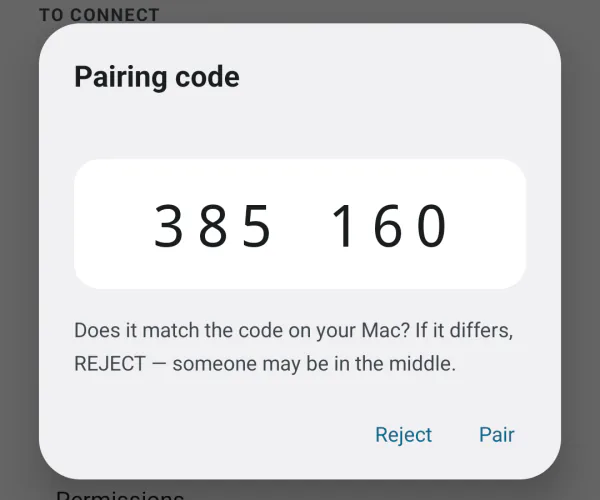
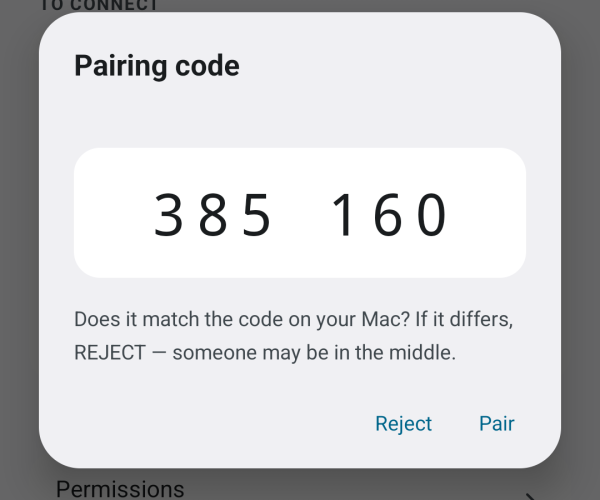
fix(landing): preserve screenshot detail with lossless WebP

diff --git a/tr/index.html b/tr/index.html
@@ -27,7 +27,7 @@
   <link rel="icon" href="../images/icon.png" sizes="256x256" type="image/png">
   <link rel="apple-touch-icon" href="../images/apple-touch-icon.png">
   <link rel="preload" href="../fonts/schibsted-latin.woff2" as="font" type="font/woff2" crossorigin>
-  <link rel="preload" href="../images/macos-panel-640.webp" as="image" type="image/webp" imagesrcset="../images/macos-panel-320.webp 320w, ../images/macos-panel-640.webp 640w" imagesizes="(max-width: 600px) 46vw, 320px" fetchpriority="high">
+  <link rel="preload" href="../images/macos-panel-640.webp?v=3" as="image" type="image/webp" imagesrcset="../images/macos-panel-320.webp?v=3 320w, ../images/macos-panel-640.webp?v=3 640w" imagesizes="(max-width: 600px) 46vw, 320px" fetchpriority="high">
   <link rel="stylesheet" href="../site.css">
   <script>try{const t=localStorage.getItem("theme");document.documentElement.dataset.theme=t==="dark"||t==="light"?t:matchMedia("(prefers-color-scheme: dark)").matches?"dark":"light"}catch{}</script>
   <script>if("IntersectionObserver"in window&&!matchMedia("(prefers-reduced-motion: reduce)").matches){const r=document.documentElement;r.classList.add("rv");addEventListener("load",()=>{if(!r.dataset.revealReady)r.classList.remove("rv")})}</script>
@@ -63,11 +63,11 @@
       </div>
       <div class="stage">
         <picture>
-          <source type="image/webp" srcset="../images/macos-panel-320.webp 320w, ../images/macos-panel-640.webp 640w" sizes="(max-width: 600px) 46vw, 320px">
+          <source type="image/webp" srcset="../images/macos-panel-320.webp?v=3 320w, ../images/macos-panel-640.webp?v=3 640w" sizes="(max-width: 600px) 46vw, 320px">
           <img class="panel" src="../images/macos-panel.png" width="640" height="1090" fetchpriority="high" alt="Mac'te AndroMac menü çubuğu paneli: yüzde 78 dolu ve şarj olan bir Pixel 9, çalan bir şarkı, pano ve kopyalama düğmeli bir doğrulama kodu dahil son telefon bildirimleri.">
         </picture>
         <picture>
-          <source type="image/webp" srcset="../images/android-home-270.webp 270w, ../images/android-home-540.webp 540w" sizes="(max-width: 600px) 36vw, 250px">
+          <source type="image/webp" srcset="../images/android-home-270.webp?v=3 270w, ../images/android-home-540.webp?v=3 540w, ../images/android-home-1080.webp?v=3 1080w" sizes="(max-width: 600px) 36vw, 250px">
           <img class="phone" src="../images/android-home.png" width="1080" height="2000" alt="Android'de eşleşmeye hazır AndroMac: Eşleştir düğmesi ve pil, pano, bildirim ve medya anahtarları.">
         </picture>
         <div class="banner" aria-hidden="true">
@@ -180,7 +180,7 @@ xattr -dr com.apple.quarantine /Applications/AndroMac.app</pre></div>
         <figure class="tile wide" data-reveal="zoom">
           <div class="fig">
             <div class="pane"><picture>
-              <source type="image/webp" srcset="../images/macos-window-720.webp 720w, ../images/macos-window-1440.webp 1440w" sizes="(max-width: 900px) 90vw, 620px">
+              <source type="image/webp" srcset="../images/macos-window-720.webp?v=3 720w, ../images/macos-window-1440.webp?v=3 1440w" sizes="(max-width: 900px) 90vw, 620px">
               <img src="../images/macos-window.png" width="1440" height="1000" loading="lazy" alt="Mac'te bildirim geçmişi penceresi: Messages, Signal, Calendar, Photos ve Maps bildirimleri ve bir arama alanı.">
             </picture></div>
             <figcaption>Telefondan gelen her bildirim bir geçmişte birikir; uygulamaya, başlığa ya da metne göre ararsın</figcaption>
@@ -189,7 +189,7 @@ xattr -dr com.apple.quarantine /Applications/AndroMac.app</pre></div>
         <figure class="tile tall" data-reveal="zoom">
           <div class="fig">
             <div class="pane"><picture>
-              <source type="image/webp" srcset="../images/android-sync-dark-300.webp 300w, ../images/android-sync-dark-600.webp 600w" sizes="(max-width: 600px) 60vw, 280px">
+              <source type="image/webp" srcset="../images/android-sync-dark-300.webp?v=3 300w, ../images/android-sync-dark-600.webp?v=3 600w, ../images/android-sync-dark-1080.webp?v=3 1080w" sizes="(max-width: 600px) 60vw, 280px">
               <img src="../images/android-sync-dark.png" width="1080" height="1800" loading="lazy" alt="Koyu temada Android uygulaması: pil, pano, bildirimler ve medya anahtarları.">
             </picture></div>
             <figcaption>Telefonun Mac'le neyi paylaşacağını sen seçersin: pil, pano, bildirimler ve müzik</figcaption>
@@ -198,7 +198,7 @@ xattr -dr com.apple.quarantine /Applications/AndroMac.app</pre></div>
         <figure class="tile tall" data-reveal="zoom">
           <div class="fig">
             <div class="pane"><picture>
-              <source type="image/webp" srcset="../images/android-connection-300.webp 300w, ../images/android-connection-600.webp 600w" sizes="(max-width: 600px) 60vw, 280px">
+              <source type="image/webp" srcset="../images/android-connection-300.webp?v=3 300w, ../images/android-connection-600.webp?v=3 600w, ../images/android-connection-1080.webp?v=3 1080w" sizes="(max-width: 600px) 60vw, 280px">
               <img src="../images/android-connection.png" width="1080" height="1800" loading="lazy" alt="Android'de Bağlantı ekranı: eşlenen Mac, son adresi ve Otomatik yeniden bağlan anahtarı.">
             </picture></div>
             <figcaption>Mac aynı Wi-Fi'da göründüğünde telefon kendiliğinden yeniden bağlanır</figcaption>
@@ -207,7 +207,7 @@ xattr -dr com.apple.quarantine /Applications/AndroMac.app</pre></div>
         <figure class="tile wide" data-reveal="zoom">
           <div class="fig">
             <div class="pane"><picture>
-              <source type="image/webp" srcset="../images/macos-settings-sync-720.webp 720w, ../images/macos-settings-sync-1440.webp 1440w" sizes="(max-width: 900px) 90vw, 620px">
+              <source type="image/webp" srcset="../images/macos-settings-sync-720.webp?v=3 720w, ../images/macos-settings-sync-1440.webp?v=3 1440w" sizes="(max-width: 900px) 90vw, 620px">
               <img src="../images/macos-settings-sync.png" width="1440" height="1000" loading="lazy" alt="Mac'te Eşitleme ayarları: pil, pano, bildirim ve medya anahtarları ve yüzde 10, 15, 20 ya da 30 seçenekli düşük pil uyarı eşiği.">
             </picture></div>
             <figcaption>Nelerin eşitleneceğini ve pil kaça düşünce Mac'in uyaracağını seç</figcaption>
@@ -231,11 +231,11 @@ xattr -dr com.apple.quarantine /Applications/AndroMac.app</pre></div>
       <figure data-reveal="right">
         <div class="frame">
           <picture>
-            <source type="image/webp" srcset="../images/macos-pairing-380.webp 380w, ../images/macos-pairing-760.webp 760w" sizes="(max-width: 600px) 52vw, 340px">
+            <source type="image/webp" srcset="../images/macos-pairing-380.webp?v=3 380w, ../images/macos-pairing-760.webp?v=3 760w" sizes="(max-width: 600px) 52vw, 340px">
             <img src="../images/macos-pairing.png" width="760" height="556" loading="lazy" alt="Mac'te eşleştirme penceresi: altı haneli kod, Reject ve Pair düğmeleri.">
           </picture>
           <picture>
-            <source type="image/webp" srcset="../images/android-pairing-300.webp 300w, ../images/android-pairing-600.webp 600w" sizes="(max-width: 600px) 38vw, 240px">
+            <source type="image/webp" srcset="../images/android-pairing-300.webp?v=3 300w, ../images/android-pairing-600.webp?v=3 600w, ../images/android-pairing-1080.webp?v=3 1080w" sizes="(max-width: 600px) 38vw, 240px">
             <img class="ph" src="../images/android-pairing.png" width="1080" height="900" loading="lazy" alt="Android'de eşleştirme kodu penceresi, Reject ve Pair düğmeleriyle.">
           </picture>
         </div>

diff --git a/index.html b/index.html
@@ -28,7 +28,7 @@
   <link rel="icon" href="images/icon.png" sizes="256x256" type="image/png">
   <link rel="apple-touch-icon" href="images/apple-touch-icon.png">
   <link rel="preload" href="fonts/schibsted-latin.woff2" as="font" type="font/woff2" crossorigin>
-  <link rel="preload" href="images/macos-panel-640.webp" as="image" type="image/webp" imagesrcset="images/macos-panel-320.webp 320w, images/macos-panel-640.webp 640w" imagesizes="(max-width: 600px) 46vw, 320px" fetchpriority="high">
+  <link rel="preload" href="images/macos-panel-640.webp?v=3" as="image" type="image/webp" imagesrcset="images/macos-panel-320.webp?v=3 320w, images/macos-panel-640.webp?v=3 640w" imagesizes="(max-width: 600px) 46vw, 320px" fetchpriority="high">
   <link rel="stylesheet" href="site.css">
   <script>try{const t=localStorage.getItem("theme");document.documentElement.dataset.theme=t==="dark"||t==="light"?t:matchMedia("(prefers-color-scheme: dark)").matches?"dark":"light"}catch{}</script>
   <script>if("IntersectionObserver"in window&&!matchMedia("(prefers-reduced-motion: reduce)").matches){const r=document.documentElement;r.classList.add("rv");addEventListener("load",()=>{if(!r.dataset.revealReady)r.classList.remove("rv")})}</script>
@@ -64,11 +64,11 @@
       </div>
       <div class="stage">
         <picture>
-          <source type="image/webp" srcset="images/macos-panel-320.webp 320w, images/macos-panel-640.webp 640w" sizes="(max-width: 600px) 46vw, 320px">
+          <source type="image/webp" srcset="images/macos-panel-320.webp?v=3 320w, images/macos-panel-640.webp?v=3 640w" sizes="(max-width: 600px) 46vw, 320px">
           <img class="panel" src="images/macos-panel.png" width="640" height="1090" fetchpriority="high" alt="AndroMac menu-bar panel on the Mac: a Pixel 9 at 78% and charging, a song playing, the clipboard, and recent phone notifications including a verification code with a copy button.">
         </picture>
         <picture>
-          <source type="image/webp" srcset="images/android-home-270.webp 270w, images/android-home-540.webp 540w" sizes="(max-width: 600px) 36vw, 250px">
+          <source type="image/webp" srcset="images/android-home-270.webp?v=3 270w, images/android-home-540.webp?v=3 540w, images/android-home-1080.webp?v=3 1080w" sizes="(max-width: 600px) 36vw, 250px">
           <img class="phone" src="images/android-home.png" width="1080" height="2000" alt="AndroMac on Android, ready to pair, with a Pair button and switches for battery, clipboard, notifications and media.">
         </picture>
         <div class="banner" aria-hidden="true">
@@ -181,7 +181,7 @@ xattr -dr com.apple.quarantine /Applications/AndroMac.app</pre></div>
         <figure class="tile wide" data-reveal="zoom">
           <div class="fig">
             <div class="pane"><picture>
-              <source type="image/webp" srcset="images/macos-window-720.webp 720w, images/macos-window-1440.webp 1440w" sizes="(max-width: 900px) 90vw, 620px">
+              <source type="image/webp" srcset="images/macos-window-720.webp?v=3 720w, images/macos-window-1440.webp?v=3 1440w" sizes="(max-width: 900px) 90vw, 620px">
               <img src="images/macos-window.png" width="1440" height="1000" loading="lazy" alt="Notification history window on the Mac, listing notifications from Messages, Signal, Calendar, Photos and Maps, with a search field.">
             </picture></div>
             <figcaption>Every notification from the phone, in a history you can search by app, title or text</figcaption>
@@ -190,7 +190,7 @@ xattr -dr com.apple.quarantine /Applications/AndroMac.app</pre></div>
         <figure class="tile tall" data-reveal="zoom">
           <div class="fig">
             <div class="pane"><picture>
-              <source type="image/webp" srcset="images/android-sync-dark-300.webp 300w, images/android-sync-dark-600.webp 600w" sizes="(max-width: 600px) 60vw, 280px">
+              <source type="image/webp" srcset="images/android-sync-dark-300.webp?v=3 300w, images/android-sync-dark-600.webp?v=3 600w, images/android-sync-dark-1080.webp?v=3 1080w" sizes="(max-width: 600px) 60vw, 280px">
               <img src="images/android-sync-dark.png" width="1080" height="1800" loading="lazy" alt="The Android app in dark mode, with switches for battery, clipboard, notifications and media.">
             </picture></div>
             <figcaption>Choose what the phone shares with the Mac: battery, clipboard, notifications and media</figcaption>
@@ -199,7 +199,7 @@ xattr -dr com.apple.quarantine /Applications/AndroMac.app</pre></div>
         <figure class="tile tall" data-reveal="zoom">
           <div class="fig">
             <div class="pane"><picture>
-              <source type="image/webp" srcset="images/android-connection-300.webp 300w, images/android-connection-600.webp 600w" sizes="(max-width: 600px) 60vw, 280px">
+              <source type="image/webp" srcset="images/android-connection-300.webp?v=3 300w, images/android-connection-600.webp?v=3 600w, images/android-connection-1080.webp?v=3 1080w" sizes="(max-width: 600px) 60vw, 280px">
               <img src="images/android-connection.png" width="1080" height="1800" loading="lazy" alt="Connection screen on Android with the paired Mac, its last address, and a Reconnect automatically switch.">
             </picture></div>
             <figcaption>The phone reconnects whenever the Mac is reachable on the same Wi-Fi</figcaption>
@@ -208,7 +208,7 @@ xattr -dr com.apple.quarantine /Applications/AndroMac.app</pre></div>
         <figure class="tile wide" data-reveal="zoom">
           <div class="fig">
             <div class="pane"><picture>
-              <source type="image/webp" srcset="images/macos-settings-sync-720.webp 720w, images/macos-settings-sync-1440.webp 1440w" sizes="(max-width: 900px) 90vw, 620px">
+              <source type="image/webp" srcset="images/macos-settings-sync-720.webp?v=3 720w, images/macos-settings-sync-1440.webp?v=3 1440w" sizes="(max-width: 900px) 90vw, 620px">
               <img src="images/macos-settings-sync.png" width="1440" height="1000" loading="lazy" alt="Sync settings on the Mac: switches for battery, clipboard, notifications and media, and a low-battery alert threshold of 10, 15, 20 or 30 percent.">
             </picture></div>
             <figcaption>Choose what syncs, and at which battery level the Mac warns you</figcaption>
@@ -232,11 +232,11 @@ xattr -dr com.apple.quarantine /Applications/AndroMac.app</pre></div>
       <figure data-reveal="right">
         <div class="frame">
           <picture>
-            <source type="image/webp" srcset="images/macos-pairing-380.webp 380w, images/macos-pairing-760.webp 760w" sizes="(max-width: 600px) 52vw, 340px">
+            <source type="image/webp" srcset="images/macos-pairing-380.webp?v=3 380w, images/macos-pairing-760.webp?v=3 760w" sizes="(max-width: 600px) 52vw, 340px">
             <img src="images/macos-pairing.png" width="760" height="556" loading="lazy" alt="Pairing window on the Mac with a six-digit code and Reject and Pair buttons.">
           </picture>
           <picture>
-            <source type="image/webp" srcset="images/android-pairing-300.webp 300w, images/android-pairing-600.webp 600w" sizes="(max-width: 600px) 38vw, 240px">
+            <source type="image/webp" srcset="images/android-pairing-300.webp?v=3 300w, images/android-pairing-600.webp?v=3 600w, images/android-pairing-1080.webp?v=3 1080w" sizes="(max-width: 600px) 38vw, 240px">
             <img class="ph" src="images/android-pairing.png" width="1080" height="900" loading="lazy" alt="Pairing code dialog on Android with Reject and Pair buttons.">
           </picture>
         </div>
